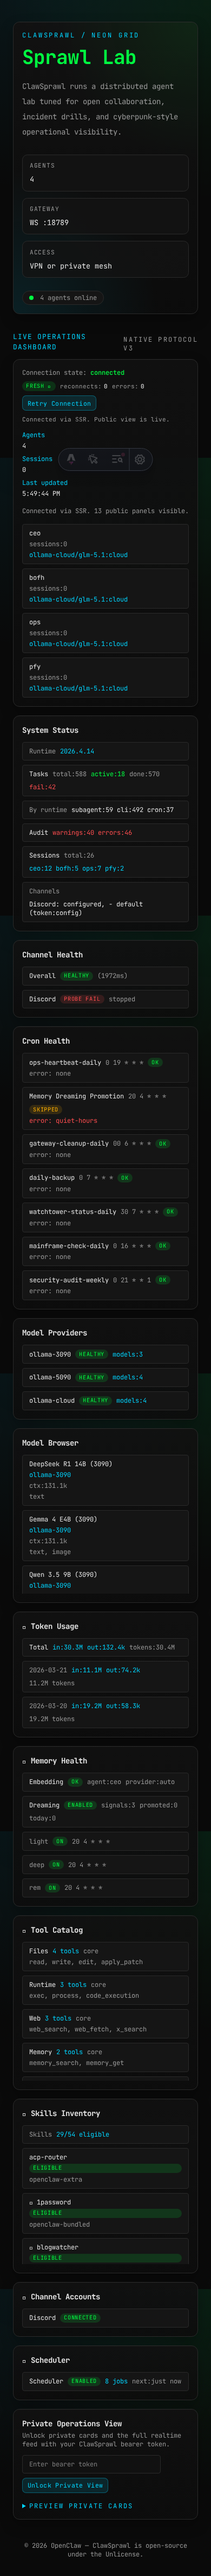
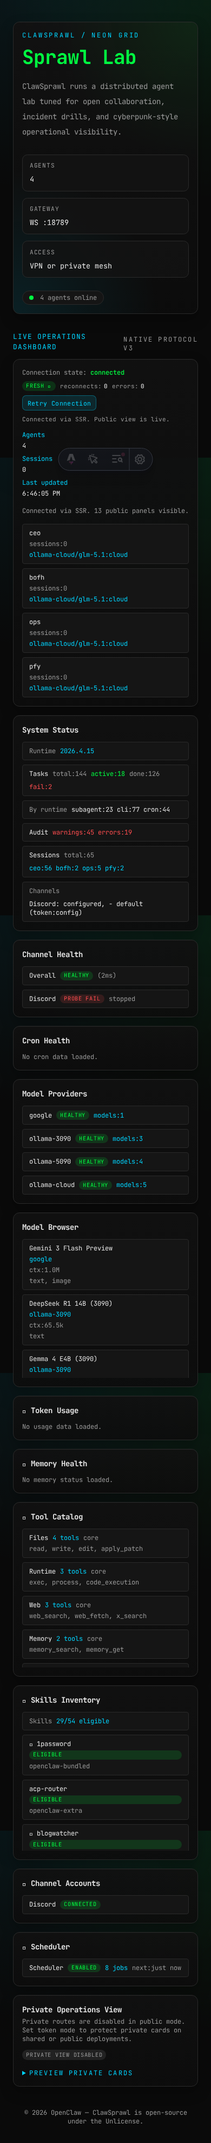
docs: refresh screenshots for v0.42.69 and update screenshot script for insecure/public modes

diff --git a/tests/e2e/docs-screenshots.spec.ts b/tests/e2e/docs-screenshots.spec.ts
@@ -3,14 +3,10 @@ import path from 'node:path';
 import { expect, test, type Page } from '@playwright/test';
 
 const screenshotDir = path.join(process.cwd(), 'docs', 'screenshots');
-const privateUnlockToken = process.env.CLAWSPRAWL_PRIVATE_TOKEN ?? 'docs-private-token';
+const mode = process.env.CLAWSPRAWL_MODE ?? 'public';
 
 test.skip(!process.env.DOCS_SCREENSHOTS, 'Run only when DOCS_SCREENSHOTS=1 is set.');
 
-/**
- * Disable CSS animations/transitions so screenshots are deterministic.
- * Also hides blinking cursors and disables smooth-scroll.
- */
 async function stabilize(page: Page): Promise<void> {
   await page.emulateMedia({ reducedMotion: 'reduce' });
   await page.addStyleTag({
@@ -19,95 +15,65 @@ async function stabilize(page: Page): Promise<void> {
   });
 }
 
-/**
- * Wait for the live gateway dashboard to fully hydrate with real data.
- *
- * Waits for:
- *   1. Connection state element to show "connected"
- *   2. At least one agent row to render (proves data arrived)
- *   3. Hero status text to show "online" (proves full render pass)
- *   4. A brief settle delay for any trailing renders
- *
- * Falls back gracefully if the gateway is unreachable — screenshots
- * will capture whatever state the dashboard is in after timeout.
- */
-async function waitForLiveData(page: Page): Promise<boolean> {
-  try {
-    await expect(page.locator('#gateway-connection-state')).toContainText('connected', { timeout: 20_000 });
-    // Wait for at least one agent row to render (proves data arrived from gateway)
-    await expect(page.locator('#gateway-agent-list li').first()).toBeVisible({ timeout: 10_000 });
-    await expect(page.locator('#hero-status-text')).toContainText('online', { timeout: 5_000 });
-    // Brief settle for any trailing panel renders triggered by SSE events
-    await page.waitForTimeout(1_500);
-    return true;
-  } catch {
-    console.warn('[docs-screenshots] Live gateway data did not fully load — capturing current state.');
-    return false;
-  }
+async function waitForLiveData(page: Page): Promise<void> {
+  await expect(page.locator('#gateway-connection-state')).toContainText('connected', { timeout: 20_000 });
+  await expect(page.locator('#gateway-agent-list li').first()).toBeVisible({ timeout: 10_000 });
+  await expect(page.locator('#hero-status-text')).toContainText('online', { timeout: 5_000 });
+  await page.waitForTimeout(1_500);
 }
 
-/** Unlock private dashboard view in token mode and wait for private panels. */
-async function unlockPrivateView(page: Page): Promise<void> {
-  const tokenInput = page.locator('#private-view-token');
-  const unlockButton = page.locator('#private-view-form button[type="submit"]');
-  await expect(tokenInput).toBeVisible({ timeout: 10_000 });
-  await tokenInput.fill(privateUnlockToken);
-
-  await unlockButton.click();
-  await page.waitForLoadState('domcontentloaded');
-
-  await expect(page.locator('#private-view-lock')).toBeVisible({ timeout: 15_000 });
-  await expect(page.locator('#gateway-event-list')).toBeVisible({ timeout: 15_000 });
-  await waitForLiveData(page);
-}
-
-test('capture documentation screenshots (desktop + mobile)', async ({ browser }) => {
+test('capture public-locked screenshots (desktop + mobile)', async ({ browser }) => {
+  test.skip(mode !== 'public', 'Public-locked screenshots only captured in public mode.');
   test.setTimeout(120_000);
   await mkdir(screenshotDir, { recursive: true });
 
-  // --- Desktop (1600×1200) ---
   const desktop = await browser.newContext({ viewport: { width: 1600, height: 1200 } });
   const desktopPage = await desktop.newPage();
   await desktopPage.goto('/');
   await waitForLiveData(desktopPage);
   await stabilize(desktopPage);
-
-  // Public locked state
   await desktopPage.screenshot({
     path: path.join(screenshotDir, 'main-overview-desktop-public-locked.png'),
     fullPage: true,
   });
-
-  // Private unlocked state
-  await unlockPrivateView(desktopPage);
-  await stabilize(desktopPage);
-  await desktopPage.screenshot({
-    path: path.join(screenshotDir, 'main-overview-desktop-private-unlocked.png'),
-    fullPage: true,
-  });
-
   await desktop.close();
 
-  // --- Mobile (390×844, iPhone 14-ish) ---
   const mobile = await browser.newContext({ viewport: { width: 390, height: 844 } });
   const mobilePage = await mobile.newPage();
   await mobilePage.goto('/');
   await waitForLiveData(mobilePage);
   await stabilize(mobilePage);
-
-  // Public locked state
   await mobilePage.screenshot({
     path: path.join(screenshotDir, 'main-overview-mobile-public-locked.png'),
     fullPage: true,
   });
+  await mobile.close();
+});
 
-  // Private unlocked state
-  await unlockPrivateView(mobilePage);
+test('capture private-unlocked screenshots (desktop + mobile)', async ({ browser }) => {
+  test.skip(mode !== 'insecure', 'Private-unlocked screenshots only captured in insecure mode.');
+  test.setTimeout(120_000);
+  await mkdir(screenshotDir, { recursive: true });
+
+  const desktop = await browser.newContext({ viewport: { width: 1600, height: 1200 } });
+  const desktopPage = await desktop.newPage();
+  await desktopPage.goto('/');
+  await waitForLiveData(desktopPage);
+  await stabilize(desktopPage);
+  await desktopPage.screenshot({
+    path: path.join(screenshotDir, 'main-overview-desktop-private-unlocked.png'),
+    fullPage: true,
+  });
+  await desktop.close();
+
+  const mobile = await browser.newContext({ viewport: { width: 390, height: 844 } });
+  const mobilePage = await mobile.newPage();
+  await mobilePage.goto('/');
+  await waitForLiveData(mobilePage);
   await stabilize(mobilePage);
   await mobilePage.screenshot({
     path: path.join(screenshotDir, 'main-overview-mobile-private-unlocked.png'),
     fullPage: true,
   });
-
   await mobile.close();
 });
